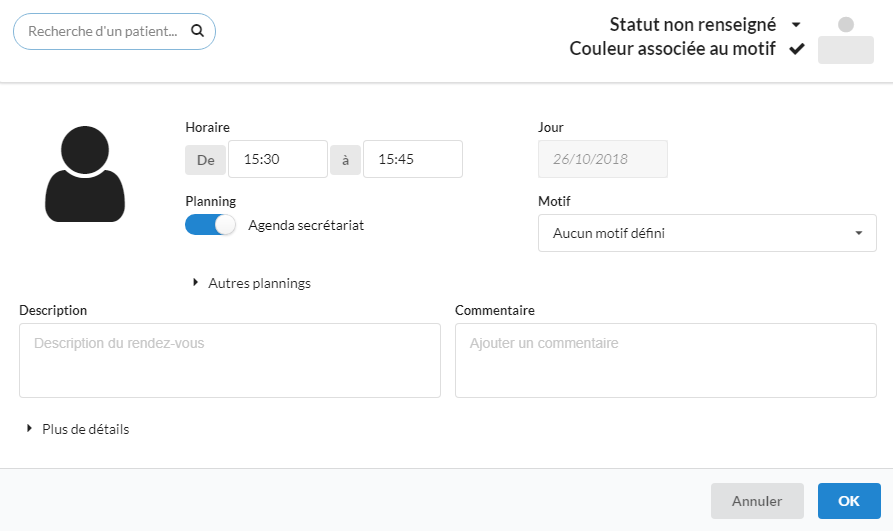
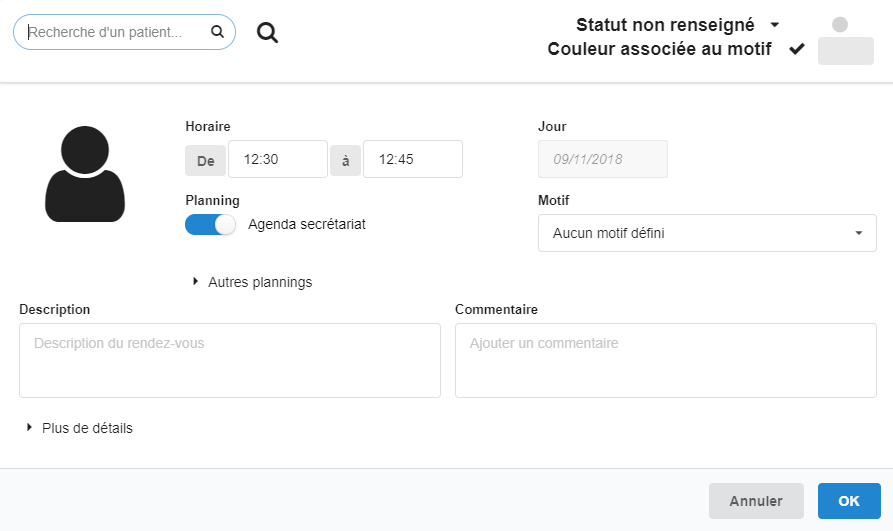
Mise à jour documentation

diff --git a/docs/Agendas.md b/docs/Agendas.md
@@ -12,11 +12,13 @@ Sur cet agenda, il peut y avoir plusieurs plannings et un rendez-vous peut figur
 
 ![Changement de planning](images/agenda-plannings.png)
 
-## Impression de l'agenda
+## Actions sur l'Agenda
 
-Cliquer sur l'icône d'impression : 
+![Actions sur l'Agenda](images/agenda-actions.png)
 
-![Impression de l'agenda](images/agenda-impression.png)
+* En **_Vert_** : Bouton pour imprimer l'Agenda.
+* En **_Bleu_** : Augmentation et réduction de la hauteur des créneaux sur l'Agenda.
+* En **_Rouge_** : Bouton pour masquer le panneau latéral gauche.
 
 ## Création d'un nouveau rendez-vous
 
@@ -25,6 +27,8 @@ En cliquant sur un créneau horaire, une interface de saisie d'information du re
 ![Nouveau rendez-vous](images/agenda-nouveau-rdv.png)
 
 * Le nom et le prénom du patient : voir l'image de la recherche d'un patient
+
+* On peut faire une recherche élargie d'un patient par son **_IPP_** (son identifiant unique), son **_nom_** et **_prénom_**, son **_numéro de téléphone_** etc. Icône encadrée en **_vert_**.
 
 ![Recherche d'un patient](images/agenda-recherche-patient.png)
 
@@ -64,7 +68,11 @@ Sur l'agenda, il faut d'abord faire une recherche d'un patient et une fois le pa
 
 * En **_Bleu_** c'est la liste des rendez-vous qui sont en attente. Il y a aussi deux icônes, l'une c'est pour vider cette liste et l'autre c'est pour ajouter un rendez-vous à cette liste; icône "**+**"
 
-* En **_Violet_** nous avons deux icônes qui sont actives dès qu'un patient est sélectionné dans la liste des suggestions : une pour nettoyer la barre de recherche et l'autre pour afficher la liste des rendez-vous du patient sélectionné.
+* En **_Violet_** nous avons une icône pour nettoyer la barre de recherche d'un patient, une icône pour faire une recherche élargie d'un patient et une autre afficher la liste des rendez-vous du patient sélectionné.
+
+Une fois le patient sélectionné, les boutons en dessous de la barre de recherche seront utilisés pour chercher un rendez-vous dans la liste des rendez-vous de ce patient et aller directement sur ce rendez-vous dans l'Agenda. 
+
+![Aller sur un rendez-vous](images/agenda-aller-sur-rdv.png)
 
 ## Liste des rendez-vous d'un patient
 

diff --git a/docs/Patients.md b/docs/Patients.md
@@ -10,9 +10,15 @@ Création d'une nouvelle fiche :
 
 ![Menu patients](images/nouveau-patient.png)
 
+En **_Rouge_**, le bouton pour créer une nouvelle fiche et en **_Vert_**, l'icône pour lancer une recherche élargie d'un patient.
+
 * Sur une fiche, les informations générales se trouvent dans la rubrique **Informations générales**. On y retrouve aussi l'identifiant du patient dans la base de données (préfixé par un "**_#_**").
 
 * Les coordonnées du patient sont dans la rubrique **Adresse et contact**. Il faut noter qu'un numéro de téléphone portable du patient est nécessaire que le praticien puisse faire un rappel de rendez-vous par SMS.
+
+## Recherche élargie d'un patient
+
+C'est une interface qui donne la possibilité au praticien de rechercher un patient par son **_IPP_** ss(identifiant unique du patient), son **_nom_** et **_prénom_**, **_numéro de téléphone_** etc. 
 
 ## Gestion des rendez-vous
 
